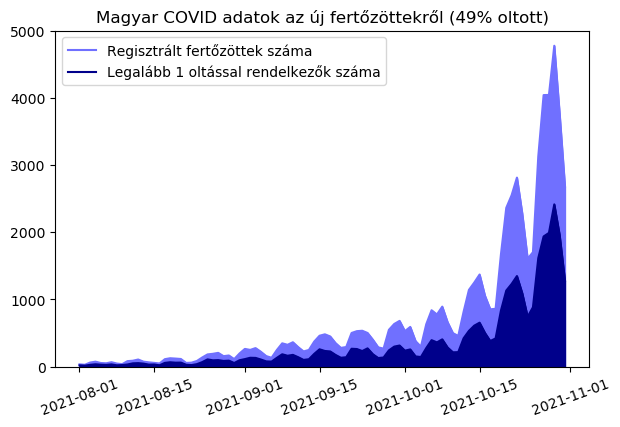
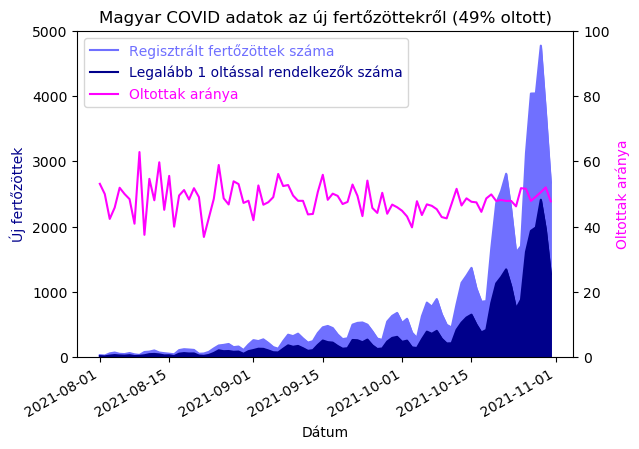
Oltottak aránya

diff --git a/magyar/kép_magyar.py b/magyar/kép_magyar.py
@@ -8,35 +8,47 @@ import os
 from mpl_toolkits.axes_grid1 import host_subplot
 import matplotlib.pyplot as plt
 import mpl_toolkits.axisartist as AA
-from matplotlib import gridspec
-from datetime import timedelta
-from matplotlib.patches import Rectangle
 
 BASEDIR=os.path.dirname(__file__)
 
 df = pd.read_csv(BASEDIR +"/újfertőzések.csv", parse_dates=['Dátum'])
+df["Oltottak aránya"] =100 * df['Legalább 1 oltással rendelkezők száma'] / df['Regisztrált fertőzöttek száma']
 
 summa = df.sum()
 
 rate = int(100.0 * summa['Legalább 1 oltással rendelkezők száma'] / summa['Regisztrált fertőzöttek száma'] + 0.5)
 
+
 pd.plotting.register_matplotlib_converters()
 
-fig=plt.figure(figsize=[6,4])
+host = host_subplot(111)
 
-spec = gridspec.GridSpec(ncols=1, nrows=1,
-                         width_ratios=[1], wspace=0.3,
-                         hspace=0.40, height_ratios=[1])
-spec.update(left=0.06,right=0.95,top=0.92,bottom=0.08,wspace=0.25,hspace=0.50)
+par = host.twinx()
 
-ax1=fig.add_subplot(spec[0], label="1")
-ax1.set_title("Magyar COVID adatok az új fertőzöttekről (" + str(rate) + "% oltott)")
-ax1.plot(df['Dátum'], df['Regisztrált fertőzöttek száma'], color='#7070FF', label='Regisztrált fertőzöttek száma')
-ax1.plot(df['Dátum'], df['Legalább 1 oltással rendelkezők száma'], color='darkblue', label='Legalább 1 oltással rendelkezők száma')
-ax1.fill_between(df['Dátum'], df['Regisztrált fertőzöttek száma'], color="#7070FF")
-ax1.fill_between(df['Dátum'], df['Legalább 1 oltással rendelkezők száma'], color="darkblue")
-ax1.set_ylim([0, 5000])
-ax1.tick_params(axis='x', rotation=20)
-ax1.legend()
+host.set_xlabel("Dátum")
+host.set_ylabel("Új fertőzöttek")
+host.set_title("Magyar COVID adatok az új fertőzöttekről (" + str(rate) + "% oltott)")
+host.set_ylim([0, 5000])
+par.set_ylabel("Oltottak aránya")
+par.set_ylim([0, 100])
 
+p1, = host.plot(df['Dátum'], df['Regisztrált fertőzöttek száma'], label="Regisztrált fertőzöttek száma", color="#7070FF")
+p1b, = host.plot(df['Dátum'], df['Legalább 1 oltással rendelkezők száma'], label="Legalább 1 oltással rendelkezők száma", color="darkblue")
+p2, = par.plot(df['Dátum'], df['Oltottak aránya'], label="Oltottak aránya", color="magenta")
+
+host.fill_between(df['Dátum'], df['Regisztrált fertőzöttek száma'], color="#7070FF")
+host.fill_between(df['Dátum'], df['Legalább 1 oltással rendelkezők száma'], color="darkblue")
+
+leg = plt.legend()
+
+host.yaxis.get_label().set_color(p1b.get_color())
+leg.texts[0].set_color(p1.get_color())
+
+leg.texts[1].set_color(p1b.get_color())
+
+par.yaxis.get_label().set_color(p2.get_color())
+leg.texts[2].set_color(p2.get_color())
+
+fig = host.get_figure()
+fig.autofmt_xdate()
 fig.savefig(BASEDIR + "/Magyar.png", bbox_inches = "tight")
